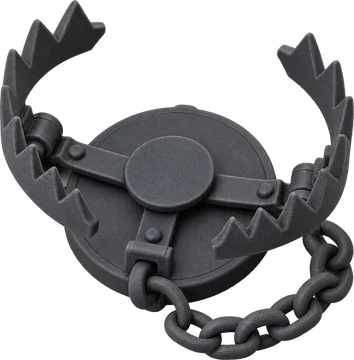
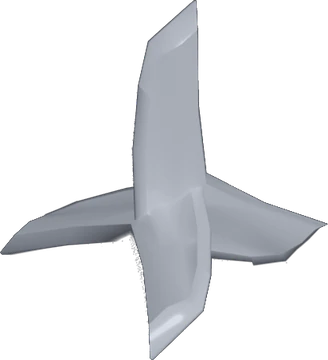
Правила: ловушки первыми, яд последним с крупной фигуркой под картами; фигурка макибиси в тексте; «Условия» подзаголовками со значками
Страница 7: «Ловушки», «Стойки», «Групповые действия»; страница 8: «Эффекты»,
«Яд». Фигурка яда тушью — 22 мм, сдвинута под центр колонки карт
(fig=(имя, ширина, k, отступ_справа) — новый четвёртый параметр).
В тексте «Ловушек» фигурка макибиси в строке, как яд и знамя: вырезана из
рендера модели в fig/trap.webp (стальная серая); прежний капкан —
fig/obsolete/trap-v1-beartrap.webp, памятка теперь показывает макибиси.
«Условия»: каждый бонус — h4 со значком справа, как «Выставление жетонов».

diff --git a/rules/rules.html b/rules/rules.html
@@ -208,6 +208,20 @@
   <div class="spread">
     <section class="sheet left page" id="p7" data-page="7">
       <div class="content">
+      <section class="chapter" id="traps" style="--bg:url(media/bg/traps.webp)">
+        <div class="chapter-body">
+          <h2 class="chapter-title">Ловушки<span class="kanji" aria-hidden="true">罠</span><span class="h-icons"><i class="ic" data-b="trap"></i></span></h2>
+        <aside class="chapter-side">
+          <div class="side-cards fan n2"><div class="card-embed" style="--k:-0.5;--i:0"><img src="media/cards/43.webp" alt=""></div><div class="card-embed" style="--k:0.5;--i:1"><img src="media/cards/41.webp" alt=""></div></div>
+        </aside>
+<p>Во время своего хода любой игрок может выставлять перед собой максимум одну ловушку, положив специальную карту ловушки рубашкой вверх и поставив на неё фигурку ловушки <img class="mk fig-inline trap" src="media/fig/trap.webp" alt="">. Во время своего хода можно неоднократно менять активную ловушку перед собой на новую из руки, забирая текущую обратно в руку.</p>
+<p>Во время атаки по вам ловушка будет активироваться, если вы не намерены защищаться. В случае использования карты защиты ловушка остаётся нетронутой. Метательное оружие и атаки никогда не активируют ловушку. При смерти вы автоматически скидываете карту ловушки в сброс.</p>
+<p>Существуют карты просвещения ловушек — тогда надо перевернуть карту ловушки картинкой вверх, оставив сверху фигурку ловушки.</p>
+<div class="fig-row"><div class="fig-text" style="padding-right:20mm">
+<aside class="note">Если при просветлении, воровстве или активации выяснится, что под ловушкой лежит не карта ловушки, игрок сразу умирает, отдав победное очко инициатору. Ловушка срабатывает, даже если атака летальна.</aside>
+</div><img class="chapter-fig" src="media/fig/ink/trap-fig.webp" style="width:17mm;right:0mm" alt=""></div>
+        </div>
+      </section>
       <section class="chapter" id="stances" style="--bg:url(media/bg/stances.webp)">
         <div class="chapter-body">
           <h2 class="chapter-title">Стойки<span class="kanji" aria-hidden="true">構え</span><span class="h-icons"><i class="ic" data-b="stance"></i></span></h2>
@@ -216,20 +230,6 @@
         </aside>
 <p>Во время своего хода вы можете единожды выставить специальную карту стойки. Разместите её рядом с картой своего персонажа. Ваша стойка будет активна до тех пор, пока вы не умрёте или потеряете стойку другим особенным способом.</p>
 <p>Одномоментно может действовать только одна стойка. Если во время разыгрывания карты стойки у вас уже была активная стойка, прежнюю карту вы забираете обратно в руку.</p>
-        </div>
-      </section>
-      <section class="chapter" id="traps" style="--bg:url(media/bg/traps.webp)">
-        <div class="chapter-body">
-          <h2 class="chapter-title">Ловушки<span class="kanji" aria-hidden="true">罠</span><span class="h-icons"><i class="ic" data-b="trap"></i></span></h2>
-        <aside class="chapter-side">
-          <div class="side-cards fan n2"><div class="card-embed" style="--k:-0.5;--i:0"><img src="media/cards/43.webp" alt=""></div><div class="card-embed" style="--k:0.5;--i:1"><img src="media/cards/41.webp" alt=""></div></div>
-        </aside>
-<p>Во время своего хода любой игрок может выставлять перед собой максимум одну ловушку, положив специальную карту ловушки рубашкой вверх и поставив на неё фигурку ловушки. Во время своего хода можно неоднократно менять активную ловушку перед собой на новую из руки, забирая текущую обратно в руку.</p>
-<p>Во время атаки по вам ловушка будет активироваться, если вы не намерены защищаться. В случае использования карты защиты ловушка остаётся нетронутой. Метательное оружие и атаки никогда не активируют ловушку. При смерти вы автоматически скидываете карту ловушки в сброс.</p>
-<p>Существуют карты просвещения ловушек — тогда надо перевернуть карту ловушки картинкой вверх, оставив сверху фигурку ловушки.</p>
-<div class="fig-row"><div class="fig-text" style="padding-right:20mm">
-<aside class="note">Если при просветлении, воровстве или активации выяснится, что под ловушкой лежит не карта ловушки, игрок сразу умирает, отдав победное очко инициатору. Ловушка срабатывает, даже если атака летальна.</aside>
-</div><img class="chapter-fig" src="media/fig/ink/trap-fig.webp" style="width:17mm" alt=""></div>
         </div>
       </section>
       <section class="chapter" id="group">
@@ -246,25 +246,6 @@
     </section>
     <section class="sheet right page" id="p8" data-page="8">
       <div class="content">
-      <section class="chapter" id="poison" style="--bg:url(media/bg/poison.webp)">
-        <div class="chapter-body">
-          <h2 class="chapter-title">Яд<span class="kanji" aria-hidden="true">毒</span><span class="h-icons"><i class="ic" data-b="poison"></i></span></h2>
-        <aside class="chapter-side">
-          <div class="side-cards fan n2"><div class="card-embed" style="--k:-0.5;--i:0"><img src="media/cards/116.webp" alt=""></div><div class="card-embed" style="--k:0.5;--i:1"><img src="media/cards/64.webp" alt=""></div></div>
-        </aside>
-<p>В игре присутствует возможность отравлять игроков ядом путём совершения отравленных атак оружием либо в результате действия других карт. Карты, обладающие эффектом отравления ядом, помечены специальным значком. Игрок, отравленный ядом, помечается фигуркой яда <img class="mk fig-inline poison" src="media/fig/poison.webp" alt=""> поверх своей карты роли. Яд не тупит клинок: на силу атаки отравленного он не влияет.</p>
-<div class="fig-row"><div class="fig-text" style="padding-right:19mm">
-<div class="order-list">
-        <h4>Три недуга отравленного</h4>
-        <ol>
-          <li>Отравленный игрок в конце своего хода теряет два жетона здоровья. Если при этом он умирает, то победное очко отдаётся в сброс.</li>
-          <li>Отравленная атака по уже отравленному игроку наносит на одну рану больше.</li>
-          <li>Умерший от яда не получает фазы восстановления: открытые карты он сбрасывает, как любой мёртвый, но рука остаётся какой была — ни сброса, ни добора до семи.</li>
-        </ol>
-      </div>
-</div><img class="chapter-fig" src="media/fig/ink/poison-fig.webp" style="width:16mm" alt=""></div>
-        </div>
-      </section>
       <section class="chapter" id="effects" style="--bg:url(media/bg/effects.webp)">
         <div class="chapter-body">
           <h2 class="chapter-title">Эффекты<span class="kanji" aria-hidden="true">術</span><span class="h-icons"><i class="ic" data-b="effect"></i></span></h2>
@@ -275,6 +256,25 @@
 <p>Эффекты можно воровать, перемещать или убирать с помощью специальных карт палочек благовоний. Эффекты можно накладывать на любого живого игрока.</p>
 <p>Когда карта эффекта разыгрывается, она ставится справа от карты персонажа игрока в открытую. Любой игрок может иметь неограниченное количество эффектов, однако невозможно иметь два одноимённых эффекта.</p>
 <aside class="note">При смерти игрок теряет все эффекты и сбрасывает их карты.</aside>
+        </div>
+      </section>
+      <section class="chapter" id="poison" style="--bg:url(media/bg/poison.webp)">
+        <div class="chapter-body">
+          <h2 class="chapter-title">Яд<span class="kanji" aria-hidden="true">毒</span><span class="h-icons"><i class="ic" data-b="poison"></i></span></h2>
+        <aside class="chapter-side">
+          <div class="side-cards fan n2"><div class="card-embed" style="--k:-0.5;--i:0"><img src="media/cards/116.webp" alt=""></div><div class="card-embed" style="--k:0.5;--i:1"><img src="media/cards/64.webp" alt=""></div></div>
+        </aside>
+<p>В игре присутствует возможность отравлять игроков ядом путём совершения отравленных атак оружием либо в результате действия других карт. Карты, обладающие эффектом отравления ядом, помечены специальным значком. Игрок, отравленный ядом, помечается фигуркой яда <img class="mk fig-inline poison" src="media/fig/poison.webp" alt=""> поверх своей карты роли. Яд не тупит клинок: на силу атаки отравленного он не влияет.</p>
+<div class="fig-row"><div class="fig-text" style="padding-right:32mm">
+<div class="order-list">
+        <h4>Три недуга отравленного</h4>
+        <ol>
+          <li>Отравленный игрок в конце своего хода теряет два жетона здоровья. Если при этом он умирает, то победное очко отдаётся в сброс.</li>
+          <li>Отравленная атака по уже отравленному игроку наносит на одну рану больше.</li>
+          <li>Умерший от яда не получает фазы восстановления: открытые карты он сбрасывает, как любой мёртвый, но рука остаётся какой была — ни сброса, ни добора до семи.</li>
+        </ol>
+      </div>
+</div><img class="chapter-fig" src="media/fig/ink/poison-fig.webp" style="width:22mm;right:7mm" alt=""></div>
         </div>
       </section>
       </div>
@@ -306,7 +306,7 @@
 <div class="fig-row"><div class="fig-text" style="padding-right:16mm">
 <p>Ауру играет любой игрок в свой ход: карта кладётся перед персонажем в открытую, сверху ставится фигурка знамени <img class="mk fig-inline" src="media/fig/banner.webp" alt="">. У одного игрока не больше одной ауры; новая заменяет прежнюю, и та возвращается в руку, как стойка и ловушка. Ауры разных игроков одной команды не отменяют друг друга, а складываются.</p>
 <p>Аура остаётся в игре, пока её владелец жив и не заменил её другой; при его смерти она уходит в сброс вместе с остальными его открытыми картами.</p>
-</div><img class="chapter-fig" src="media/fig/ink/banner-fig.webp" style="width:13mm" alt=""></div>
+</div><img class="chapter-fig" src="media/fig/ink/banner-fig.webp" style="width:13mm;right:0mm" alt=""></div>
         </div>
       </section>
       </div>
@@ -321,14 +321,18 @@
           <div class="side-cards stack n2"><div class="card-embed" style="--k:-0.5;--i:0"><img src="media/cards/125.webp" alt=""></div><div class="card-embed" style="--k:0.5;--i:1"><img src="media/cards/3094.webp" alt=""></div></div>
         </aside>
 <p>Многие карты в колоде работают по-разному в зависимости от ситуации на столе — кто ими играет, в каком состоянии игрок и что лежит у него перед собой. Такие карты несут <strong>условные бонусы</strong>: базовый эффект срабатывает всегда, а к нему добавляются (или вычитаются) дополнительные модификаторы при выполнении определённого условия. Условия выделены на карте явно — на это стоит обращать внимание ещё на этапе чтения.</p>
-<p><i class="ic" data-b="rolectx"></i> <strong>Бонусы по фракции.</strong> Часть карт по-разному ведёт себя в руках самурая и ниндзя: одна сторона получает усиление, другая — штраф (сброс карты, потеря жизни, ограничение действия). Пример: оружие, от удара которого <em class="card-term">ниндзи</em> нельзя защититься, а <em class="card-term">самураи</em> за атаку платят сбросом карты.</p>
-<p><i class="ic" data-b="hpctx"></i> <strong>Контекст здоровья.</strong> Карта может ссылаться на два состояния игрока:</p>
+<h4>Бонусы по фракции<span class="h-icons"><i class="ic" data-b="rolectx"></i></span></h4>
+<p>Часть карт по-разному ведёт себя в руках самурая и ниндзя: одна сторона получает усиление, другая — штраф (сброс карты, потеря жизни, ограничение действия). Пример: оружие, от удара которого <em class="card-term">ниндзи</em> нельзя защититься, а <em class="card-term">самураи</em> за атаку платят сбросом карты.</p>
+<h4>Контекст здоровья<span class="h-icons"><i class="ic" data-b="hpctx"></i></span></h4>
+<p>Карта может ссылаться на два состояния игрока:</p>
 <ul>
         <li><em class="card-term">На пороге смерти</em> — у игрока остался последний жетон жизни. В этом состоянии открываются «отчаянные» бонусы: добавочный урон, лечение союзников, защитные эффекты, риск-награда.</li>
         <li><em class="card-term">При полном здоровье</em> — у игрока максимальное количество жизней по карте персонажа. Здесь обычно появляются «инициативные» бонусы: дополнительный добор карт, усиленные атаки, расширенный набор действий.</li>
       </ul>
-<p><i class="ic" data-b="charges"></i> <strong>Счёт по столу.</strong> Карты со значком счётчика масштабируются от того, что видно на столе в момент розыгрыша: <em class="card-term">за каждого</em> отравленного, за каждую ловушку врагов, за каждого живого союзника. Считается только то, что лежит открыто, и только один раз — в момент, когда карта играется.</p>
-<p><i class="ic" data-b="charctx"></i> <strong>Условие по имени.</strong> Карта со значком безликого бюста называет персонажа: <em class="card-term">Така</em>, <em class="card-term">Любимое оружие: Норио</em>. Такая строка работает только у названного игрока — карта персонажа лежит перед ним открыто, и проверка делается взглядом на стол. В чужих руках карта остаётся обычной, именная строка просто не читается.</p>
+<h4>Счёт по столу<span class="h-icons"><i class="ic" data-b="charges"></i></span></h4>
+<p>Карты со значком счётчика масштабируются от того, что видно на столе в момент розыгрыша: <em class="card-term">за каждого</em> отравленного, за каждую ловушку врагов, за каждого живого союзника. Считается только то, что лежит открыто, и только один раз — в момент, когда карта играется.</p>
+<h4>Условие по имени<span class="h-icons"><i class="ic" data-b="charctx"></i></span></h4>
+<p>Карта со значком безликого бюста называет персонажа: <em class="card-term">Така</em>, <em class="card-term">Любимое оружие: Норио</em>. Такая строка работает только у названного игрока — карта персонажа лежит перед ним открыто, и проверка делается взглядом на стол. В чужих руках карта остаётся обычной, именная строка просто не читается.</p>
 <p>Условия по яду, стойке и прочим обстоятельствам тоже встречаются — они записаны прямо на карте и читаются как написано.</p>
         </div>
       </section>

diff --git a/rules/rules-en.html b/rules/rules-en.html
@@ -208,6 +208,20 @@
   <div class="spread">
     <section class="sheet left page" id="p7" data-page="7">
       <div class="content">
+      <section class="chapter" id="traps" style="--bg:url(media/bg/traps.webp)">
+        <div class="chapter-body">
+          <h2 class="chapter-title">Traps<span class="kanji" aria-hidden="true">罠</span><span class="h-icons"><i class="ic" data-b="trap"></i></span></h2>
+        <aside class="chapter-side">
+          <div class="side-cards fan n2"><div class="card-embed" style="--k:-0.5;--i:0"><img src="media/cards/43-en.webp" alt=""></div><div class="card-embed" style="--k:0.5;--i:1"><img src="media/cards/41-en.webp" alt=""></div></div>
+        </aside>
+<p>On their turn any player may set at most one Trap in front of themselves, placing a special Trap card face down and standing the trap figurine <img class="mk fig-inline trap" src="media/fig/trap.webp" alt=""> on top of it. During your turn you may swap the active Trap in front of you for a new one from your hand as often as you like, taking the current one back into your hand.</p>
+<p>When you are attacked, the Trap triggers if you do not intend to defend. If you play a Defense card, the Trap is left untouched. Thrown weapons and their attacks never trigger a Trap. On death you automatically discard your Trap card.</p>
+<p>There are cards that reveal Traps — in that case the Trap card is turned face up, with the trap figurine left standing on it.</p>
+<div class="fig-row"><div class="fig-text" style="padding-right:20mm">
+<aside class="note">If revealing, stealing or triggering shows that the card under the Trap is not a Trap card, that player dies at once and hands a victory point to the initiator. A Trap resolves even if the attack was lethal.</aside>
+</div><img class="chapter-fig" src="media/fig/ink/trap-fig.webp" style="width:17mm;right:0mm" alt=""></div>
+        </div>
+      </section>
       <section class="chapter" id="stances" style="--bg:url(media/bg/stances.webp)">
         <div class="chapter-body">
           <h2 class="chapter-title">Stances<span class="kanji" aria-hidden="true">構え</span><span class="h-icons"><i class="ic" data-b="stance"></i></span></h2>
@@ -216,20 +230,6 @@
         </aside>
 <p>Once during your turn you may put a special Stance card into play. Place it beside your character card. Your Stance stays active until you die or lose it by some other particular means.</p>
 <p>Only one Stance can be active at a time. If you already had an active Stance when you play a new one, you take the previous Stance card back into your hand.</p>
-        </div>
-      </section>
-      <section class="chapter" id="traps" style="--bg:url(media/bg/traps.webp)">
-        <div class="chapter-body">
-          <h2 class="chapter-title">Traps<span class="kanji" aria-hidden="true">罠</span><span class="h-icons"><i class="ic" data-b="trap"></i></span></h2>
-        <aside class="chapter-side">
-          <div class="side-cards fan n2"><div class="card-embed" style="--k:-0.5;--i:0"><img src="media/cards/43-en.webp" alt=""></div><div class="card-embed" style="--k:0.5;--i:1"><img src="media/cards/41-en.webp" alt=""></div></div>
-        </aside>
-<p>On their turn any player may set at most one Trap in front of themselves, placing a special Trap card face down and standing the trap figurine on top of it. During your turn you may swap the active Trap in front of you for a new one from your hand as often as you like, taking the current one back into your hand.</p>
-<p>When you are attacked, the Trap triggers if you do not intend to defend. If you play a Defense card, the Trap is left untouched. Thrown weapons and their attacks never trigger a Trap. On death you automatically discard your Trap card.</p>
-<p>There are cards that reveal Traps — in that case the Trap card is turned face up, with the trap figurine left standing on it.</p>
-<div class="fig-row"><div class="fig-text" style="padding-right:20mm">
-<aside class="note">If revealing, stealing or triggering shows that the card under the Trap is not a Trap card, that player dies at once and hands a victory point to the initiator. A Trap resolves even if the attack was lethal.</aside>
-</div><img class="chapter-fig" src="media/fig/ink/trap-fig.webp" style="width:17mm" alt=""></div>
         </div>
       </section>
       <section class="chapter" id="group">
@@ -246,25 +246,6 @@
     </section>
     <section class="sheet right page" id="p8" data-page="8">
       <div class="content">
-      <section class="chapter" id="poison" style="--bg:url(media/bg/poison.webp)">
-        <div class="chapter-body">
-          <h2 class="chapter-title">Poison<span class="kanji" aria-hidden="true">毒</span><span class="h-icons"><i class="ic" data-b="poison"></i></span></h2>
-        <aside class="chapter-side">
-          <div class="side-cards fan n2"><div class="card-embed" style="--k:-0.5;--i:0"><img src="media/cards/116-en.webp" alt=""></div><div class="card-embed" style="--k:0.5;--i:1"><img src="media/cards/64-en.webp" alt=""></div></div>
-        </aside>
-<p>Players can be poisoned, either by making poisoned weapon attacks or through the action of other cards. Cards that carry poison are marked with a special icon. A poisoned player is marked with the poison figurine <img class="mk fig-inline poison" src="media/fig/poison.webp" alt=""> placed on top of their role card. Poison does not blunt the blade: it has no effect on the poisoned player's attack power.</p>
-<div class="fig-row"><div class="fig-text" style="padding-right:19mm">
-<div class="order-list">
-        <h4>The three afflictions of the poisoned</h4>
-        <ol>
-          <li>A poisoned player loses two life at the end of their turn. If that kills them, the victory point goes to the discard pile.</li>
-          <li>A poisoned attack against an already poisoned player deals one extra wound.</li>
-          <li>A player killed by poison gets no recovery phase: they discard their face-up cards like any dead player, but their hand stays exactly as it was — no discard, no drawing back up to seven.</li>
-        </ol>
-      </div>
-</div><img class="chapter-fig" src="media/fig/ink/poison-fig.webp" style="width:16mm" alt=""></div>
-        </div>
-      </section>
       <section class="chapter" id="effects" style="--bg:url(media/bg/effects.webp)">
         <div class="chapter-body">
           <h2 class="chapter-title">Effects<span class="kanji" aria-hidden="true">術</span><span class="h-icons"><i class="ic" data-b="effect"></i></span></h2>
@@ -275,6 +256,25 @@
 <p>Effects can be stolen, moved or removed with special incense-stick cards. Effects may be placed on any living player.</p>
 <p>When an Effect card is played, it is placed face up to the right of that player's character card. A player may hold any number of Effects, but cannot hold two Effects of the same name.</p>
 <aside class="note">On death a player loses every Effect and discards those cards.</aside>
+        </div>
+      </section>
+      <section class="chapter" id="poison" style="--bg:url(media/bg/poison.webp)">
+        <div class="chapter-body">
+          <h2 class="chapter-title">Poison<span class="kanji" aria-hidden="true">毒</span><span class="h-icons"><i class="ic" data-b="poison"></i></span></h2>
+        <aside class="chapter-side">
+          <div class="side-cards fan n2"><div class="card-embed" style="--k:-0.5;--i:0"><img src="media/cards/116-en.webp" alt=""></div><div class="card-embed" style="--k:0.5;--i:1"><img src="media/cards/64-en.webp" alt=""></div></div>
+        </aside>
+<p>Players can be poisoned, either by making poisoned weapon attacks or through the action of other cards. Cards that carry poison are marked with a special icon. A poisoned player is marked with the poison figurine <img class="mk fig-inline poison" src="media/fig/poison.webp" alt=""> placed on top of their role card. Poison does not blunt the blade: it has no effect on the poisoned player's attack power.</p>
+<div class="fig-row"><div class="fig-text" style="padding-right:32mm">
+<div class="order-list">
+        <h4>The three afflictions of the poisoned</h4>
+        <ol>
+          <li>A poisoned player loses two life at the end of their turn. If that kills them, the victory point goes to the discard pile.</li>
+          <li>A poisoned attack against an already poisoned player deals one extra wound.</li>
+          <li>A player killed by poison gets no recovery phase: they discard their face-up cards like any dead player, but their hand stays exactly as it was — no discard, no drawing back up to seven.</li>
+        </ol>
+      </div>
+</div><img class="chapter-fig" src="media/fig/ink/poison-fig.webp" style="width:22mm;right:7mm" alt=""></div>
         </div>
       </section>
       </div>
@@ -306,7 +306,7 @@
 <div class="fig-row"><div class="fig-text" style="padding-right:16mm">
 <p>Any player may play an Aura on their turn: the card goes face up in front of the character, with the banner figurine <img class="mk fig-inline" src="media/fig/banner.webp" alt=""> on top. A player holds one Aura at most; a new one replaces the old, which returns to hand like a Stance or a Trap. Auras of different players on the same team do not cancel one another — they stack.</p>
 <p>An Aura stays in play as long as its owner is alive and has not replaced it; when the owner dies it is discarded with the rest of their face-up cards.</p>
-</div><img class="chapter-fig" src="media/fig/ink/banner-fig.webp" style="width:13mm" alt=""></div>
+</div><img class="chapter-fig" src="media/fig/ink/banner-fig.webp" style="width:13mm;right:0mm" alt=""></div>
         </div>
       </section>
       </div>
@@ -321,14 +321,18 @@
           <div class="side-cards stack n2"><div class="card-embed" style="--k:-0.5;--i:0"><img src="media/cards/125-en.webp" alt=""></div><div class="card-embed" style="--k:0.5;--i:1"><img src="media/cards/3094-en.webp" alt=""></div></div>
         </aside>
 <p>Many cards in the deck work differently depending on the situation at the table — who is playing them, what state that player is in, and what lies in front of them. Such cards carry <strong>conditional bonuses</strong>: the base effect always fires, and extra modifiers are added to it (or subtracted from it) when a particular condition is met. Conditions are marked out explicitly on the card — worth noticing while you are still reading it.</p>
-<p><i class="ic" data-b="rolectx"></i> <strong>Faction bonuses.</strong> Some cards behave differently in the hands of a samurai and a ninja: one side gets a boost, the other a penalty (discarding a card, losing life, a restricted action). For example: a weapon whose blow a <em class="card-term">Ninja</em> cannot defend against, while a <em class="card-term">Samurai</em> pays for the attack with a discarded card.</p>
-<p><i class="ic" data-b="hpctx"></i> <strong>Health context.</strong> A card may refer to two states of a player:</p>
+<h4>Faction bonuses<span class="h-icons"><i class="ic" data-b="rolectx"></i></span></h4>
+<p>Some cards behave differently in the hands of a samurai and a ninja: one side gets a boost, the other a penalty (discarding a card, losing life, a restricted action). For example: a weapon whose blow a <em class="card-term">Ninja</em> cannot defend against, while a <em class="card-term">Samurai</em> pays for the attack with a discarded card.</p>
+<h4>Health context<span class="h-icons"><i class="ic" data-b="hpctx"></i></span></h4>
+<p>A card may refer to two states of a player:</p>
 <ul>
         <li><em class="card-term">At death's door</em> — the player has a single life left. This state opens up «desperate» bonuses: added damage, healing for allies, protective effects, risk and reward.</li>
         <li><em class="card-term">At full health</em> — the player is at the maximum life printed on their character card. This usually brings out «forward» bonuses: extra card draw, stronger attacks, a wider set of actions.</li>
       </ul>
-<p><i class="ic" data-b="charges"></i> <strong>Counting the table.</strong> Cards with the counter icon scale with what is visible on the table at the moment they are played: <em class="card-term">for each</em> poisoned player, for each enemy Trap, for each living ally. Only what lies face up is counted, and only once — at the moment the card is played.</p>
-<p><i class="ic" data-b="charctx"></i> <strong>Named condition.</strong> A card with the faceless-bust icon names a character: <em class="card-term">Taka</em>, <em class="card-term">Favourite weapon: Norio</em>. Such a line works only for the named player — the character card lies face up in front of them, so the check is a glance at the table. In anyone else's hands the card stays ordinary; the named line is simply not read.</p>
+<h4>Counting the table<span class="h-icons"><i class="ic" data-b="charges"></i></span></h4>
+<p>Cards with the counter icon scale with what is visible on the table at the moment they are played: <em class="card-term">for each</em> poisoned player, for each enemy Trap, for each living ally. Only what lies face up is counted, and only once — at the moment the card is played.</p>
+<h4>Named condition<span class="h-icons"><i class="ic" data-b="charctx"></i></span></h4>
+<p>A card with the faceless-bust icon names a character: <em class="card-term">Taka</em>, <em class="card-term">Favourite weapon: Norio</em>. Such a line works only for the named player — the character card lies face up in front of them, so the check is a glance at the table. In anyone else's hands the card stays ordinary; the named line is simply not read.</p>
 <p>Conditions on poison, Stances and other circumstances exist too — they are written right on the card and read exactly as written.</p>
         </div>
       </section>

diff --git a/rules/content-ru.html b/rules/content-ru.html
@@ -142,17 +142,21 @@
       <h2 class="chapter-title" data-mark="条">Условия</h2>
       <p>Многие карты в колоде работают по-разному в зависимости от ситуации на столе — кто ими играет, в каком состоянии игрок и что лежит у него перед собой. Такие карты несут <strong>условные бонусы</strong>: базовый эффект срабатывает всегда, а к нему добавляются (или вычитаются) дополнительные модификаторы при выполнении определённого условия. Условия выделены на карте явно — на это стоит обращать внимание ещё на этапе чтения.</p>
 
-      <p><strong>Бонусы по фракции.</strong> Часть карт по-разному ведёт себя в руках самурая и ниндзя: одна сторона получает усиление, другая — штраф (сброс карты, потеря жизни, ограничение действия). Пример: оружие, от удара которого <em class="card-term">ниндзи</em> нельзя защититься, а <em class="card-term">самураи</em> за атаку платят сбросом карты.</p>
+      <h4>Бонусы по фракции</h4>
+      <p>Часть карт по-разному ведёт себя в руках самурая и ниндзя: одна сторона получает усиление, другая — штраф (сброс карты, потеря жизни, ограничение действия). Пример: оружие, от удара которого <em class="card-term">ниндзи</em> нельзя защититься, а <em class="card-term">самураи</em> за атаку платят сбросом карты.</p>
 
-      <p><strong>Контекст здоровья.</strong> Карта может ссылаться на два состояния игрока:</p>
+      <h4>Контекст здоровья</h4>
+      <p>Карта может ссылаться на два состояния игрока:</p>
       <ul>
         <li><em class="card-term">На пороге смерти</em> — у игрока остался последний жетон жизни. В этом состоянии открываются «отчаянные» бонусы: добавочный урон, лечение союзников, защитные эффекты, риск-награда.</li>
         <li><em class="card-term">При полном здоровье</em> — у игрока максимальное количество жизней по карте персонажа. Здесь обычно появляются «инициативные» бонусы: дополнительный добор карт, усиленные атаки, расширенный набор действий.</li>
       </ul>
 
-      <p><strong>Счёт по столу.</strong> Карты со значком счётчика масштабируются от того, что видно на столе в момент розыгрыша: <em class="card-term">за каждого</em> отравленного, за каждую ловушку врагов, за каждого живого союзника. Считается только то, что лежит открыто, и только один раз — в момент, когда карта играется.</p>
+      <h4>Счёт по столу</h4>
+      <p>Карты со значком счётчика масштабируются от того, что видно на столе в момент розыгрыша: <em class="card-term">за каждого</em> отравленного, за каждую ловушку врагов, за каждого живого союзника. Считается только то, что лежит открыто, и только один раз — в момент, когда карта играется.</p>
 
-      <p><strong>Условие по имени.</strong> Карта со значком безликого бюста называет персонажа: <em class="card-term">Така</em>, <em class="card-term">Любимое оружие: Норио</em>. Такая строка работает только у названного игрока — карта персонажа лежит перед ним открыто, и проверка делается взглядом на стол. В чужих руках карта остаётся обычной, именная строка просто не читается.</p>
+      <h4>Условие по имени</h4>
+      <p>Карта со значком безликого бюста называет персонажа: <em class="card-term">Така</em>, <em class="card-term">Любимое оружие: Норио</em>. Такая строка работает только у названного игрока — карта персонажа лежит перед ним открыто, и проверка делается взглядом на стол. В чужих руках карта остаётся обычной, именная строка просто не читается.</p>
 
       <p>Условия по яду, стойке и прочим обстоятельствам тоже встречаются — они записаны прямо на карте и читаются как написано.</p>
     </section>

diff --git a/rules/content-en.html b/rules/content-en.html
@@ -140,17 +140,21 @@
       <h2 class="chapter-title" data-mark="条">Conditions</h2>
       <p>Many cards in the deck work differently depending on the situation at the table — who is playing them, what state that player is in, and what lies in front of them. Such cards carry <strong>conditional bonuses</strong>: the base effect always fires, and extra modifiers are added to it (or subtracted from it) when a particular condition is met. Conditions are marked out explicitly on the card — worth noticing while you are still reading it.</p>
 
-      <p><strong>Faction bonuses.</strong> Some cards behave differently in the hands of a samurai and a ninja: one side gets a boost, the other a penalty (discarding a card, losing life, a restricted action). For example: a weapon whose blow a <em class="card-term">Ninja</em> cannot defend against, while a <em class="card-term">Samurai</em> pays for the attack with a discarded card.</p>
+      <h4>Faction bonuses</h4>
+      <p>Some cards behave differently in the hands of a samurai and a ninja: one side gets a boost, the other a penalty (discarding a card, losing life, a restricted action). For example: a weapon whose blow a <em class="card-term">Ninja</em> cannot defend against, while a <em class="card-term">Samurai</em> pays for the attack with a discarded card.</p>
 
-      <p><strong>Health context.</strong> A card may refer to two states of a player:</p>
+      <h4>Health context</h4>
+      <p>A card may refer to two states of a player:</p>
       <ul>
         <li><em class="card-term">At death's door</em> — the player has a single life left. This state opens up «desperate» bonuses: added damage, healing for allies, protective effects, risk and reward.</li>
         <li><em class="card-term">At full health</em> — the player is at the maximum life printed on their character card. This usually brings out «forward» bonuses: extra card draw, stronger attacks, a wider set of actions.</li>
       </ul>
 
-      <p><strong>Counting the table.</strong> Cards with the counter icon scale with what is visible on the table at the moment they are played: <em class="card-term">for each</em> poisoned player, for each enemy Trap, for each living ally. Only what lies face up is counted, and only once — at the moment the card is played.</p>
+      <h4>Counting the table</h4>
+      <p>Cards with the counter icon scale with what is visible on the table at the moment they are played: <em class="card-term">for each</em> poisoned player, for each enemy Trap, for each living ally. Only what lies face up is counted, and only once — at the moment the card is played.</p>
 
-      <p><strong>Named condition.</strong> A card with the faceless-bust icon names a character: <em class="card-term">Taka</em>, <em class="card-term">Favourite weapon: Norio</em>. Such a line works only for the named player — the character card lies face up in front of them, so the check is a glance at the table. In anyone else's hands the card stays ordinary; the named line is simply not read.</p>
+      <h4>Named condition</h4>
+      <p>A card with the faceless-bust icon names a character: <em class="card-term">Taka</em>, <em class="card-term">Favourite weapon: Norio</em>. Such a line works only for the named player — the character card lies face up in front of them, so the check is a glance at the table. In anyone else's hands the card stays ordinary; the named line is simply not read.</p>
 
       <p>Conditions on poison, Stances and other circumstances exist too — they are written right on the card and read exactly as written.</p>
     </section>

diff --git a/rules/rules.css b/rules/rules.css
@@ -453,6 +453,7 @@ p .ic, li .ic, h4 .ic, aside .ic { --ic: 3.6mm; vertical-align: -1mm; margin: 0 
 p .mk, li .mk, h4 .mk, aside .mk { width: 3.6mm; height: 3.6mm; vertical-align: -1mm; margin: 0 .3mm; }
 p .fig-inline { width: 3.2mm; height: 5.2mm; vertical-align: -1.6mm; margin: 0 .2mm; }   /* фигурка знамени: выше значка, во всю высоту строки */
 p .fig-inline.poison { width: 3.6mm; height: 4.7mm; vertical-align: -1.3mm; }   /* флакон яда пошире и пониже знамени (276×360) */
+p .fig-inline.trap { width: 4.2mm; height: 4.6mm; vertical-align: -1.2mm; }     /* макибиси почти квадратная (328×360) */
 
 /* ---------- Значки и карты главы: флоат с обтеканием ---------- */
 /* Колонка стоит в потоке сразу после заголовка главы и обтекается

diff --git a/tools/build-rules-new.py b/tools/build-rules-new.py
@@ -71,7 +71,7 @@ CH = {
  'stances':       dict(icons=[[('ic','stance')]],                       cards=[60, 1166]),   # «Лучник» справа, сверху — виден целиком
  'group':         dict(icons=[[('ic','aoe')]],                          cards=[83, 82]),   # «Потасовка» и «Миротворцы» сверху
  'effects':       dict(icons=[[('ic','effect')]],                       cards=[91, 92]),   # «Метка убийцы» и «Противоядие»
- 'poison':        dict(icons=[[('ic','poison')]],                       cards=[116, 64], fig=('poison-fig', 16, 1)),   # фигурка яда тушью — в углу главы
+ 'poison':        dict(icons=[[('ic','poison')]],                       cards=[116, 64], fig=('poison-fig', 22, 1, 7)),   # фигурка яда тушью — крупно, под центром колонки карт
  'interventions': dict(layout='stack', icons=[[('ic','intervention')]], cards=[121, 124]),
  'auras':         dict(icons=[[('ic','aura')]],                        cards=[1209, 1206], fig=('banner-fig', 13, 2)),   # «Часовой» внутри, «Дымовая завеса» сверху; фигурка знамени тушью — в углу
  'conditional':   dict(layout='stack', icons=[[('ic','rolectx'),('ic','hpctx'),('ic','charges'),('ic','charctx')]], cards=[125, 3094]),
@@ -95,8 +95,8 @@ PAGES = [
     ['table'],                       # стол во время партии — один на странице
     [('weapons', 0, 9)],             # атака: оружие и сложность
     [('weapons', 9, None), 'defense', 'thrust'],   # модификатор и любимое оружие со своими картами; защита; выпад
-    ['stances', 'traps', 'group'],   # стойки, ловушки, групповые действия
-    ['poison', 'effects'],
+    ['traps', 'stances', 'group'],   # ловушки, стойки, групповые действия
+    ['effects', 'poison'],
     ['interventions', 'auras'],
     ['conditional'],
     ['order', 'players'],           # неравные команды — редкость, в самый конец
@@ -144,6 +144,7 @@ def side_height_mm(icon_rows, n, layout):
 
 BANNER = '<img class="mk fig-inline" src="media/fig/banner.webp" alt="">'   # фигурка знамени в строке текста
 POISON = '<img class="mk fig-inline poison" src="media/fig/poison.webp" alt="">'   # зелёная фигурка яда в строке текста
+TRAP = '<img class="mk fig-inline trap" src="media/fig/trap.webp" alt="">'         # фигурка макибиси в строке текста
 
 def ic(kind, key):
     if kind == 'ic':
@@ -184,12 +185,13 @@ INLINE = {
   ('weapons', 'картой-модификатором с красной плашкой.', 'картой-модификатором ' + ic('ic','modifier') + ' с красной плашкой.'),
   ('auras', 'сверху ставится фигурка знамени', 'сверху ставится фигурка знамени ' + BANNER),
   ('poison', 'помечается фигуркой яда поверх', 'помечается фигуркой яда ' + POISON + ' поверх'),
+  ('traps', 'и поставив на неё фигурку ловушки.', 'и поставив на неё фигурку ловушки ' + TRAP + '.'),
   ('setup', 'Цифра внутри сердца — максимум', 'Цифра внутри сердца ' + ic('ic','hp') + ' — максимум'),
   ('setup', '<h4>Выставление жетонов</h4>', '<h4>Выставление жетонов<span class="h-icons">' + ic('mk','hp.png') + ic('mk','winpoint.png') + '</span></h4>'),   # сначала жизни, потом очки
-  ('conditional', '<strong>Бонусы по фракции.</strong>', ic('ic','rolectx') + ' <strong>Бонусы по фракции.</strong>'),
-  ('conditional', '<strong>Контекст здоровья.</strong>', ic('ic','hpctx') + ' <strong>Контекст здоровья.</strong>'),
-  ('conditional', '<strong>Счёт по столу.</strong>', ic('ic','charges') + ' <strong>Счёт по столу.</strong>'),
-  ('conditional', '<strong>Условие по имени.</strong>', ic('ic','charctx') + ' <strong>Условие по имени.</strong>'),
+  ('conditional', '<h4>Бонусы по фракции</h4>', '<h4>Бонусы по фракции<span class="h-icons">' + ic('ic','rolectx') + '</span></h4>'),
+  ('conditional', '<h4>Контекст здоровья</h4>', '<h4>Контекст здоровья<span class="h-icons">' + ic('ic','hpctx') + '</span></h4>'),
+  ('conditional', '<h4>Счёт по столу</h4>', '<h4>Счёт по столу<span class="h-icons">' + ic('ic','charges') + '</span></h4>'),
+  ('conditional', '<h4>Условие по имени</h4>', '<h4>Условие по имени<span class="h-icons">' + ic('ic','charctx') + '</span></h4>'),
  ],
  'en': [
   ('weapons', 'the highest <b>complexity</b> it can handle and its attack power.', 'the highest <b>complexity</b> it can handle ' + ic('mk','icons/complexity1.svg') + ' and its attack power ' + ic('mk','icons/dmg2.svg') + '.'),
@@ -199,12 +201,13 @@ INLINE = {
   ('weapons', 'Modifier card with a red banner.', 'Modifier card ' + ic('ic','modifier') + ' with a red banner.'),
   ('auras', 'with the banner figurine on top', 'with the banner figurine ' + BANNER + ' on top'),
   ('poison', 'marked with the poison figurine placed', 'marked with the poison figurine ' + POISON + ' placed'),
+  ('traps', 'the trap figurine on top of it.', 'the trap figurine ' + TRAP + ' on top of it.'),
   ('setup', 'The number inside the heart is', 'The number inside the heart ' + ic('ic','hp') + ' is'),
   ('setup', '<h4>Setting out tokens</h4>', '<h4>Setting out tokens<span class="h-icons">' + ic('mk','hp.png') + ic('mk','winpoint.png') + '</span></h4>'),
-  ('conditional', '<strong>Faction bonuses.</strong>', ic('ic','rolectx') + ' <strong>Faction bonuses.</strong>'),
-  ('conditional', '<strong>Health context.</strong>', ic('ic','hpctx') + ' <strong>Health context.</strong>'),
-  ('conditional', '<strong>Counting the table.</strong>', ic('ic','charges') + ' <strong>Counting the table.</strong>'),
-  ('conditional', '<strong>Named condition.</strong>', ic('ic','charctx') + ' <strong>Named condition.</strong>'),
+  ('conditional', '<h4>Faction bonuses</h4>', '<h4>Faction bonuses<span class="h-icons">' + ic('ic','rolectx') + '</span></h4>'),
+  ('conditional', '<h4>Health context</h4>', '<h4>Health context<span class="h-icons">' + ic('ic','hpctx') + '</span></h4>'),
+  ('conditional', '<h4>Counting the table</h4>', '<h4>Counting the table<span class="h-icons">' + ic('ic','charges') + '</span></h4>'),
+  ('conditional', '<h4>Named condition</h4>', '<h4>Named condition<span class="h-icons">' + ic('ic','charctx') + '</span></h4>'),
  ],
 }
 
@@ -304,11 +307,12 @@ def chapter_html(lang, cid, mark, title, body, a=0, b=None):
         # получают отступ справа под картинку, сама она стоит абсолютно в углу этой
         # обёртки (.fig-row). Обычный блок, не flex: строки по-прежнему обтекают
         # колонку карт, и перед подзаголовком не появляется зазора
-        name, w, k = fig
+        name, w, k, *rest = fig
+        right = rest[0] if rest else 0      # сдвиг влево от края колонки, мм — например, под центр колонки карт
         part = list(part)
         i = max(len(part) - k, 0)
-        row = (f'<div class="fig-row"><div class="fig-text" style="padding-right:{w + 3}mm">\n' + '\n'.join(part[i:]) + '\n</div>'
-               f'<img class="chapter-fig" src="media/fig/ink/{name}.webp" style="width:{w}mm" alt=""></div>')
+        row = (f'<div class="fig-row"><div class="fig-text" style="padding-right:{w + 3 + right}mm">\n' + '\n'.join(part[i:]) + '\n</div>'
+               f'<img class="chapter-fig" src="media/fig/ink/{name}.webp" style="width:{w}mm;right:{right}mm" alt=""></div>')
         part = part[:i] + [row]
     body = '\n'.join(part)
     bg = bg_path(cid) if a == 0 else None   # фон — только на первом срезе, чтобы не повторялся на странице
